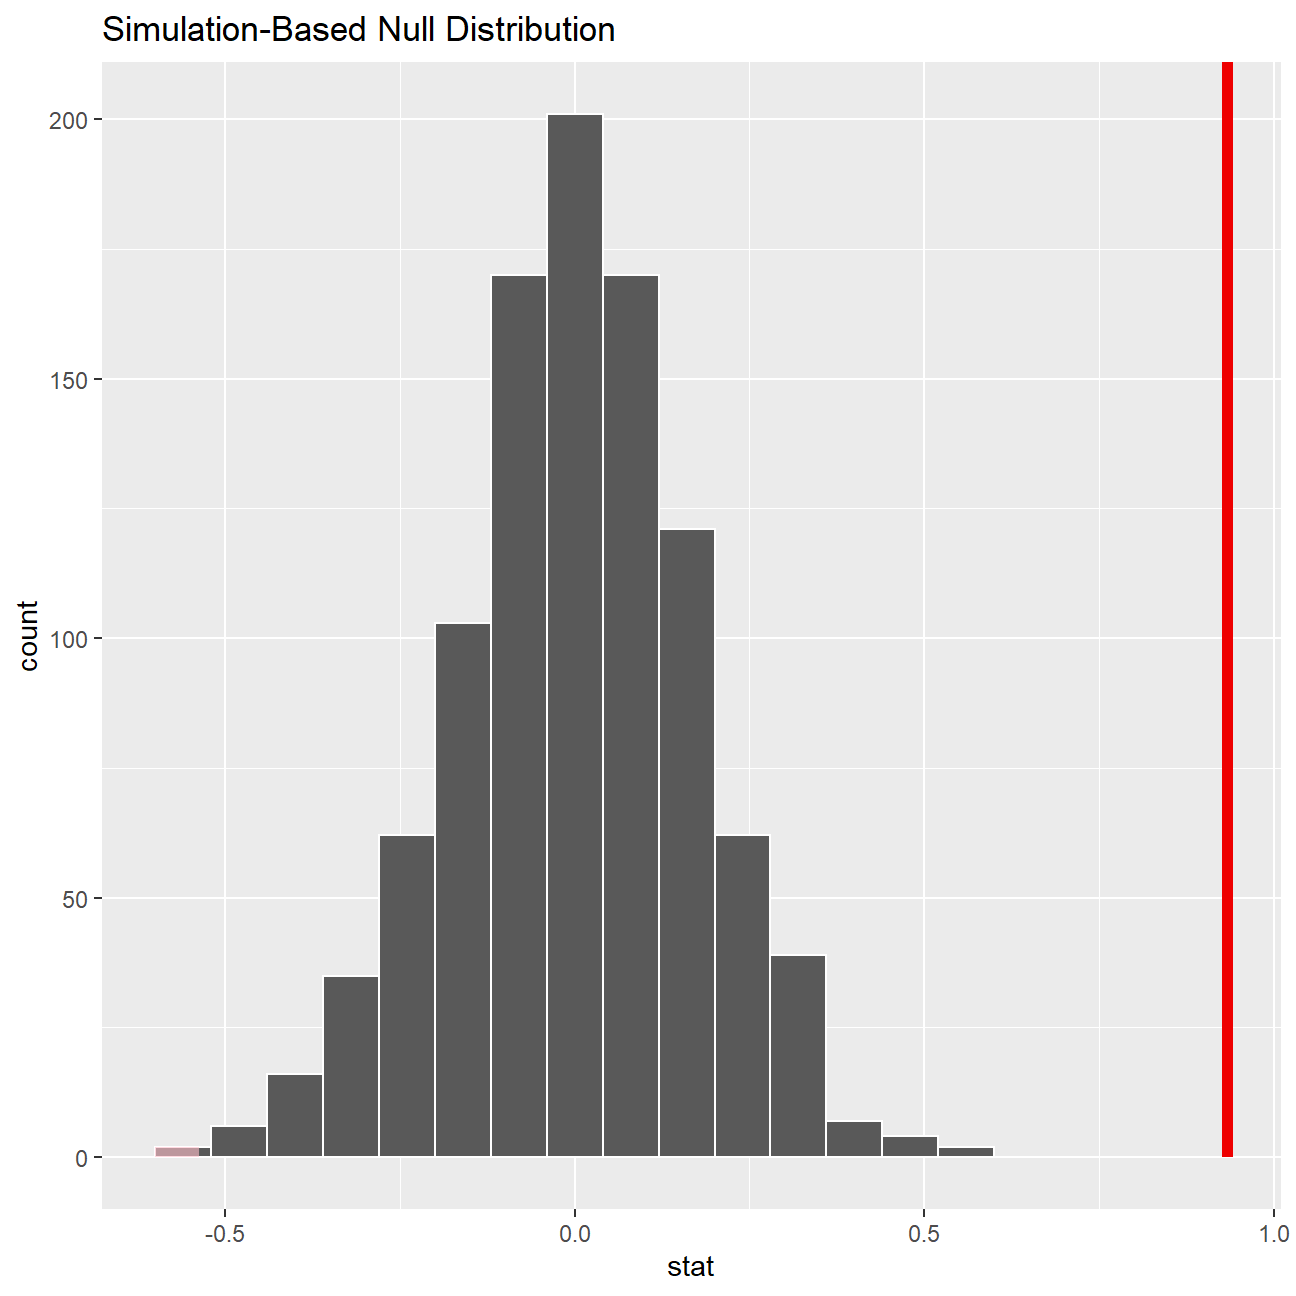
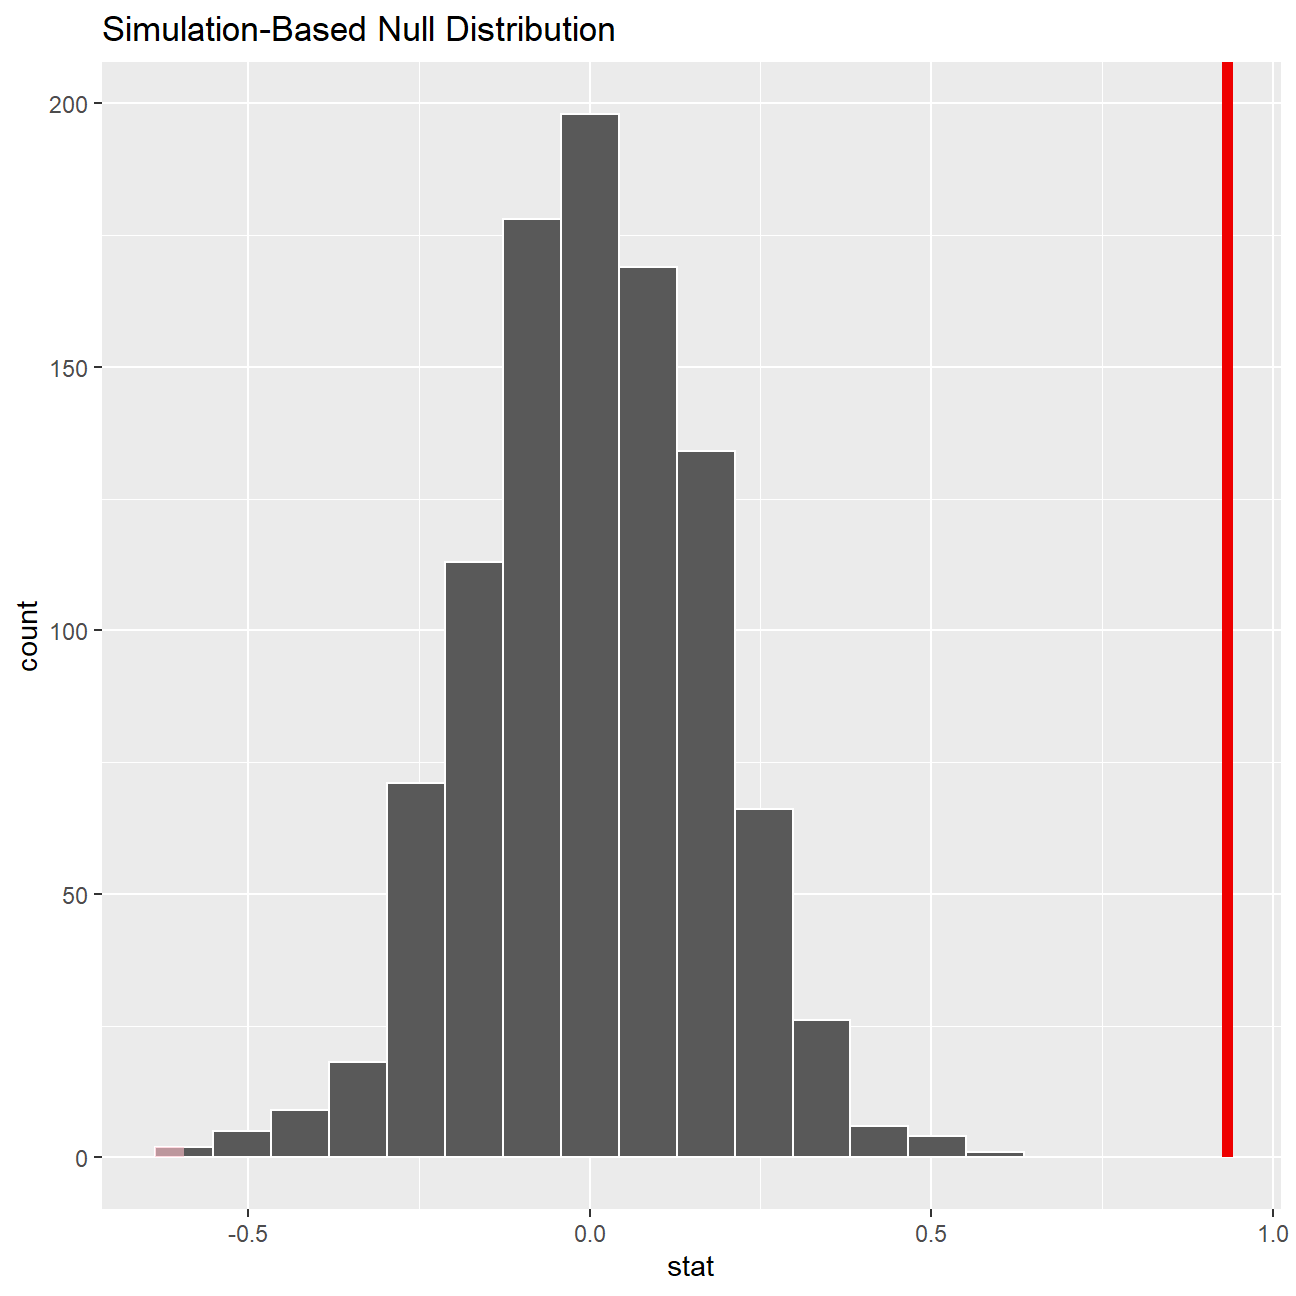
AA

diff --git a/content/projects/project3/index.html b/content/projects/project3/index.html
@@ -1,5 +1,6 @@
 ---
 title: "IMDB Ratings: Steven Spielberg vs Tim Burton"
+author: "Hugo Huere Alvarado"
 date: '2020-10-11'
 output:
   html_document:
@@ -13,8 +14,6 @@ output:
 
 
 
-<div id="imdb-ratings-differences-between-directors" class="section level1">
-<h1>IMDB ratings: Differences between directors</h1>
 <p>This project was done to research whether the IMDB rating for blockbuster movies were influenced by the director. Before looking at any kind of data, a null hypothesis and alternative hypothesis were set up as follows:</p>
 <div id="null-hypothesis" class="section level3">
 <h3>Null Hypothesis</h3>
@@ -39,232 +38,6 @@ glimpse(movies)</code></pre>
 ## $ votes               &lt;dbl&gt; 886204, 793059, 418214, 995415, 1676169, 534658...
 ## $ reviews             &lt;dbl&gt; 3777, 2843, 1934, 2425, 5312, 3917, 1752, 1752,...
 ## $ rating              &lt;dbl&gt; 7.9, 7.7, 7.0, 8.1, 9.0, 6.5, 8.7, 7.5, 8.5, 7....</code></pre>
-<pre class="r"><code>skim(movies)</code></pre>
-<table>
-<caption>(#tab:load_movies)Data summary</caption>
-<tbody>
-<tr class="odd">
-<td align="left">Name</td>
-<td align="left">movies</td>
-</tr>
-<tr class="even">
-<td align="left">Number of rows</td>
-<td align="left">2961</td>
-</tr>
-<tr class="odd">
-<td align="left">Number of columns</td>
-<td align="left">11</td>
-</tr>
-<tr class="even">
-<td align="left">_______________________</td>
-<td align="left"></td>
-</tr>
-<tr class="odd">
-<td align="left">Column type frequency:</td>
-<td align="left"></td>
-</tr>
-<tr class="even">
-<td align="left">character</td>
-<td align="left">3</td>
-</tr>
-<tr class="odd">
-<td align="left">numeric</td>
-<td align="left">8</td>
-</tr>
-<tr class="even">
-<td align="left">________________________</td>
-<td align="left"></td>
-</tr>
-<tr class="odd">
-<td align="left">Group variables</td>
-<td align="left">None</td>
-</tr>
-</tbody>
-</table>
-<p><strong>Variable type: character</strong></p>
-<table>
-<thead>
-<tr class="header">
-<th align="left">skim_variable</th>
-<th align="right">n_missing</th>
-<th align="right">complete_rate</th>
-<th align="right">min</th>
-<th align="right">max</th>
-<th align="right">empty</th>
-<th align="right">n_unique</th>
-<th align="right">whitespace</th>
-</tr>
-</thead>
-<tbody>
-<tr class="odd">
-<td align="left">title</td>
-<td align="right">0</td>
-<td align="right">1</td>
-<td align="right">1</td>
-<td align="right">83</td>
-<td align="right">0</td>
-<td align="right">2907</td>
-<td align="right">0</td>
-</tr>
-<tr class="even">
-<td align="left">genre</td>
-<td align="right">0</td>
-<td align="right">1</td>
-<td align="right">5</td>
-<td align="right">11</td>
-<td align="right">0</td>
-<td align="right">17</td>
-<td align="right">0</td>
-</tr>
-<tr class="odd">
-<td align="left">director</td>
-<td align="right">0</td>
-<td align="right">1</td>
-<td align="right">3</td>
-<td align="right">32</td>
-<td align="right">0</td>
-<td align="right">1366</td>
-<td align="right">0</td>
-</tr>
-</tbody>
-</table>
-<p><strong>Variable type: numeric</strong></p>
-<table>
-<colgroup>
-<col width="13%" />
-<col width="6%" />
-<col width="9%" />
-<col width="6%" />
-<col width="6%" />
-<col width="4%" />
-<col width="6%" />
-<col width="6%" />
-<col width="6%" />
-<col width="6%" />
-<col width="28%" />
-</colgroup>
-<thead>
-<tr class="header">
-<th align="left">skim_variable</th>
-<th align="right">n_missing</th>
-<th align="right">complete_rate</th>
-<th align="right">mean</th>
-<th align="right">sd</th>
-<th align="right">p0</th>
-<th align="right">p25</th>
-<th align="right">p50</th>
-<th align="right">p75</th>
-<th align="right">p100</th>
-<th align="left">hist</th>
-</tr>
-</thead>
-<tbody>
-<tr class="odd">
-<td align="left">year</td>
-<td align="right">0</td>
-<td align="right">1</td>
-<td align="right">2.00e+03</td>
-<td align="right">9.95e+00</td>
-<td align="right">1920.0</td>
-<td align="right">2.00e+03</td>
-<td align="right">2.00e+03</td>
-<td align="right">2.01e+03</td>
-<td align="right">2.02e+03</td>
-<td align="left">▁▁▁▂▇</td>
-</tr>
-<tr class="even">
-<td align="left">duration</td>
-<td align="right">0</td>
-<td align="right">1</td>
-<td align="right">1.10e+02</td>
-<td align="right">2.22e+01</td>
-<td align="right">37.0</td>
-<td align="right">9.50e+01</td>
-<td align="right">1.06e+02</td>
-<td align="right">1.19e+02</td>
-<td align="right">3.30e+02</td>
-<td align="left">▃▇▁▁▁</td>
-</tr>
-<tr class="odd">
-<td align="left">gross</td>
-<td align="right">0</td>
-<td align="right">1</td>
-<td align="right">5.81e+07</td>
-<td align="right">7.25e+07</td>
-<td align="right">703.0</td>
-<td align="right">1.23e+07</td>
-<td align="right">3.47e+07</td>
-<td align="right">7.56e+07</td>
-<td align="right">7.61e+08</td>
-<td align="left">▇▁▁▁▁</td>
-</tr>
-<tr class="even">
-<td align="left">budget</td>
-<td align="right">0</td>
-<td align="right">1</td>
-<td align="right">4.06e+07</td>
-<td align="right">4.37e+07</td>
-<td align="right">218.0</td>
-<td align="right">1.10e+07</td>
-<td align="right">2.60e+07</td>
-<td align="right">5.50e+07</td>
-<td align="right">3.00e+08</td>
-<td align="left">▇▂▁▁▁</td>
-</tr>
-<tr class="odd">
-<td align="left">cast_facebook_likes</td>
-<td align="right">0</td>
-<td align="right">1</td>
-<td align="right">1.24e+04</td>
-<td align="right">2.05e+04</td>
-<td align="right">0.0</td>
-<td align="right">2.24e+03</td>
-<td align="right">4.60e+03</td>
-<td align="right">1.69e+04</td>
-<td align="right">6.57e+05</td>
-<td align="left">▇▁▁▁▁</td>
-</tr>
-<tr class="even">
-<td align="left">votes</td>
-<td align="right">0</td>
-<td align="right">1</td>
-<td align="right">1.09e+05</td>
-<td align="right">1.58e+05</td>
-<td align="right">5.0</td>
-<td align="right">1.99e+04</td>
-<td align="right">5.57e+04</td>
-<td align="right">1.33e+05</td>
-<td align="right">1.69e+06</td>
-<td align="left">▇▁▁▁▁</td>
-</tr>
-<tr class="odd">
-<td align="left">reviews</td>
-<td align="right">0</td>
-<td align="right">1</td>
-<td align="right">5.03e+02</td>
-<td align="right">4.94e+02</td>
-<td align="right">2.0</td>
-<td align="right">1.99e+02</td>
-<td align="right">3.64e+02</td>
-<td align="right">6.31e+02</td>
-<td align="right">5.31e+03</td>
-<td align="left">▇▁▁▁▁</td>
-</tr>
-<tr class="even">
-<td align="left">rating</td>
-<td align="right">0</td>
-<td align="right">1</td>
-<td align="right">6.39e+00</td>
-<td align="right">1.05e+00</td>
-<td align="right">1.6</td>
-<td align="right">5.80e+00</td>
-<td align="right">6.50e+00</td>
-<td align="right">7.10e+00</td>
-<td align="right">9.30e+00</td>
-<td align="left">▁▁▆▇▁</td>
-</tr>
-</tbody>
-</table>
 <p>Besides the obvious variables of <code>title</code>, <code>genre</code>, <code>director</code>, <code>year</code>, and <code>duration</code>, the rest of the variables are as follows:</p>
 <ul>
 <li><code>gross</code> : The gross earnings in the US box office, not adjusted for inflation</li>
@@ -295,18 +68,7 @@ movies_v2 &lt;- movies_v1 %&gt;%
 <div id="data-visualisation" class="section level3">
 <h3>Data Visualisation</h3>
 <p>Judging from these numbers alone, it does indeed seem that a movie’s director has an impact on the IMDB Rating. But looking at numbers can be a bit daunting, so let’s try to make this a bit more appealing to look at:</p>
-<pre class="r"><code>p &lt;- ggplot(movies_v2, aes(mean_rating, reorder(director, mean_rating), colour = director)) +
-  labs(title = &quot;Do Spielberg and Burton have the same mean IMDB ratings?&quot;, subtitle = &quot;95% confidence intervals overlap&quot;, x= &quot;Mean IMDB Rating&quot;, y = &quot;&quot;) +
-  theme_bw() + theme(legend.position = &quot;none&quot;) +
-  geom_point(size = 7) +
-  geom_text(aes(label = round(mean_rating, 2)), vjust = -1.2, size = 7, colour = &quot;black&quot;) +
-  geom_text(aes(x = upper, label = round(upper, 2)), vjust = -1.6, size = 5, colour = &quot;black&quot;) +
-  geom_text(aes(x = lower, label = round(lower, 2)), vjust = -1.6, size = 5, colour = &quot;black&quot;) +
-  geom_errorbar(movies_v2, mapping = aes(x=mean_rating, xmin=upper, xmax=lower, y = director), width = 0.1,    size = 2.5) +
-  geom_rect(aes(xmin = lower[1], xmax = upper[2], ymin = 0, ymax = 3), colour = &quot;grey&quot;, alpha = 0.2)
-
-p</code></pre>
-<p><img src="index_files/figure-html/unnamed-chunk-2-1.png" width="648" style="display: block; margin: auto;" /></p>
+<p><img src="index_files/figure-html/unnamed-chunk-2-1.png" width="1248" style="display: block; margin: auto;" /></p>
 </div>
 <div id="hypothesis-test-with-formula" class="section level2">
 <h2>Hypothesis test with formula</h2>
@@ -354,16 +116,16 @@ null_dist</code></pre>
 <pre><code>## # A tibble: 1,000 x 2
 ##    replicate    stat
 ##        &lt;int&gt;   &lt;dbl&gt;
-##  1         1  0.289 
-##  2         2 -0.270 
-##  3         3 -0.119 
-##  4         4  0.117 
-##  5         5  0.463 
-##  6         6 -0.0982
-##  7         7  0.0291
-##  8         8  0.221 
-##  9         9  0.0369
-## 10        10  0.0967
+##  1         1 -0.103 
+##  2         2 -0.218 
+##  3         3 -0.0385
+##  4         4 -0.0151
+##  5         5  0.172 
+##  6         6 -0.244 
+##  7         7  0.0239
+##  8         8  0.0811
+##  9         9  0.156 
+## 10        10 -0.187 
 ## # ... with 990 more rows</code></pre>
 <pre class="r"><code>ggplot(data = null_dist, aes(x = stat)) +
   geom_histogram()</code></pre>
@@ -381,5 +143,4 @@ null_dist</code></pre>
 <div id="conclusion" class="section level2">
 <h2>Conclusion</h2>
 <p>Using Michael Bay and James Cameron this becomes a lot more apparent - here the gap between the two confidence intervals is quite large and so <strong>tells us that a movie’s director most likely plays a role in its IMDB rating</strong>.</p>
-</div>
 </div>
